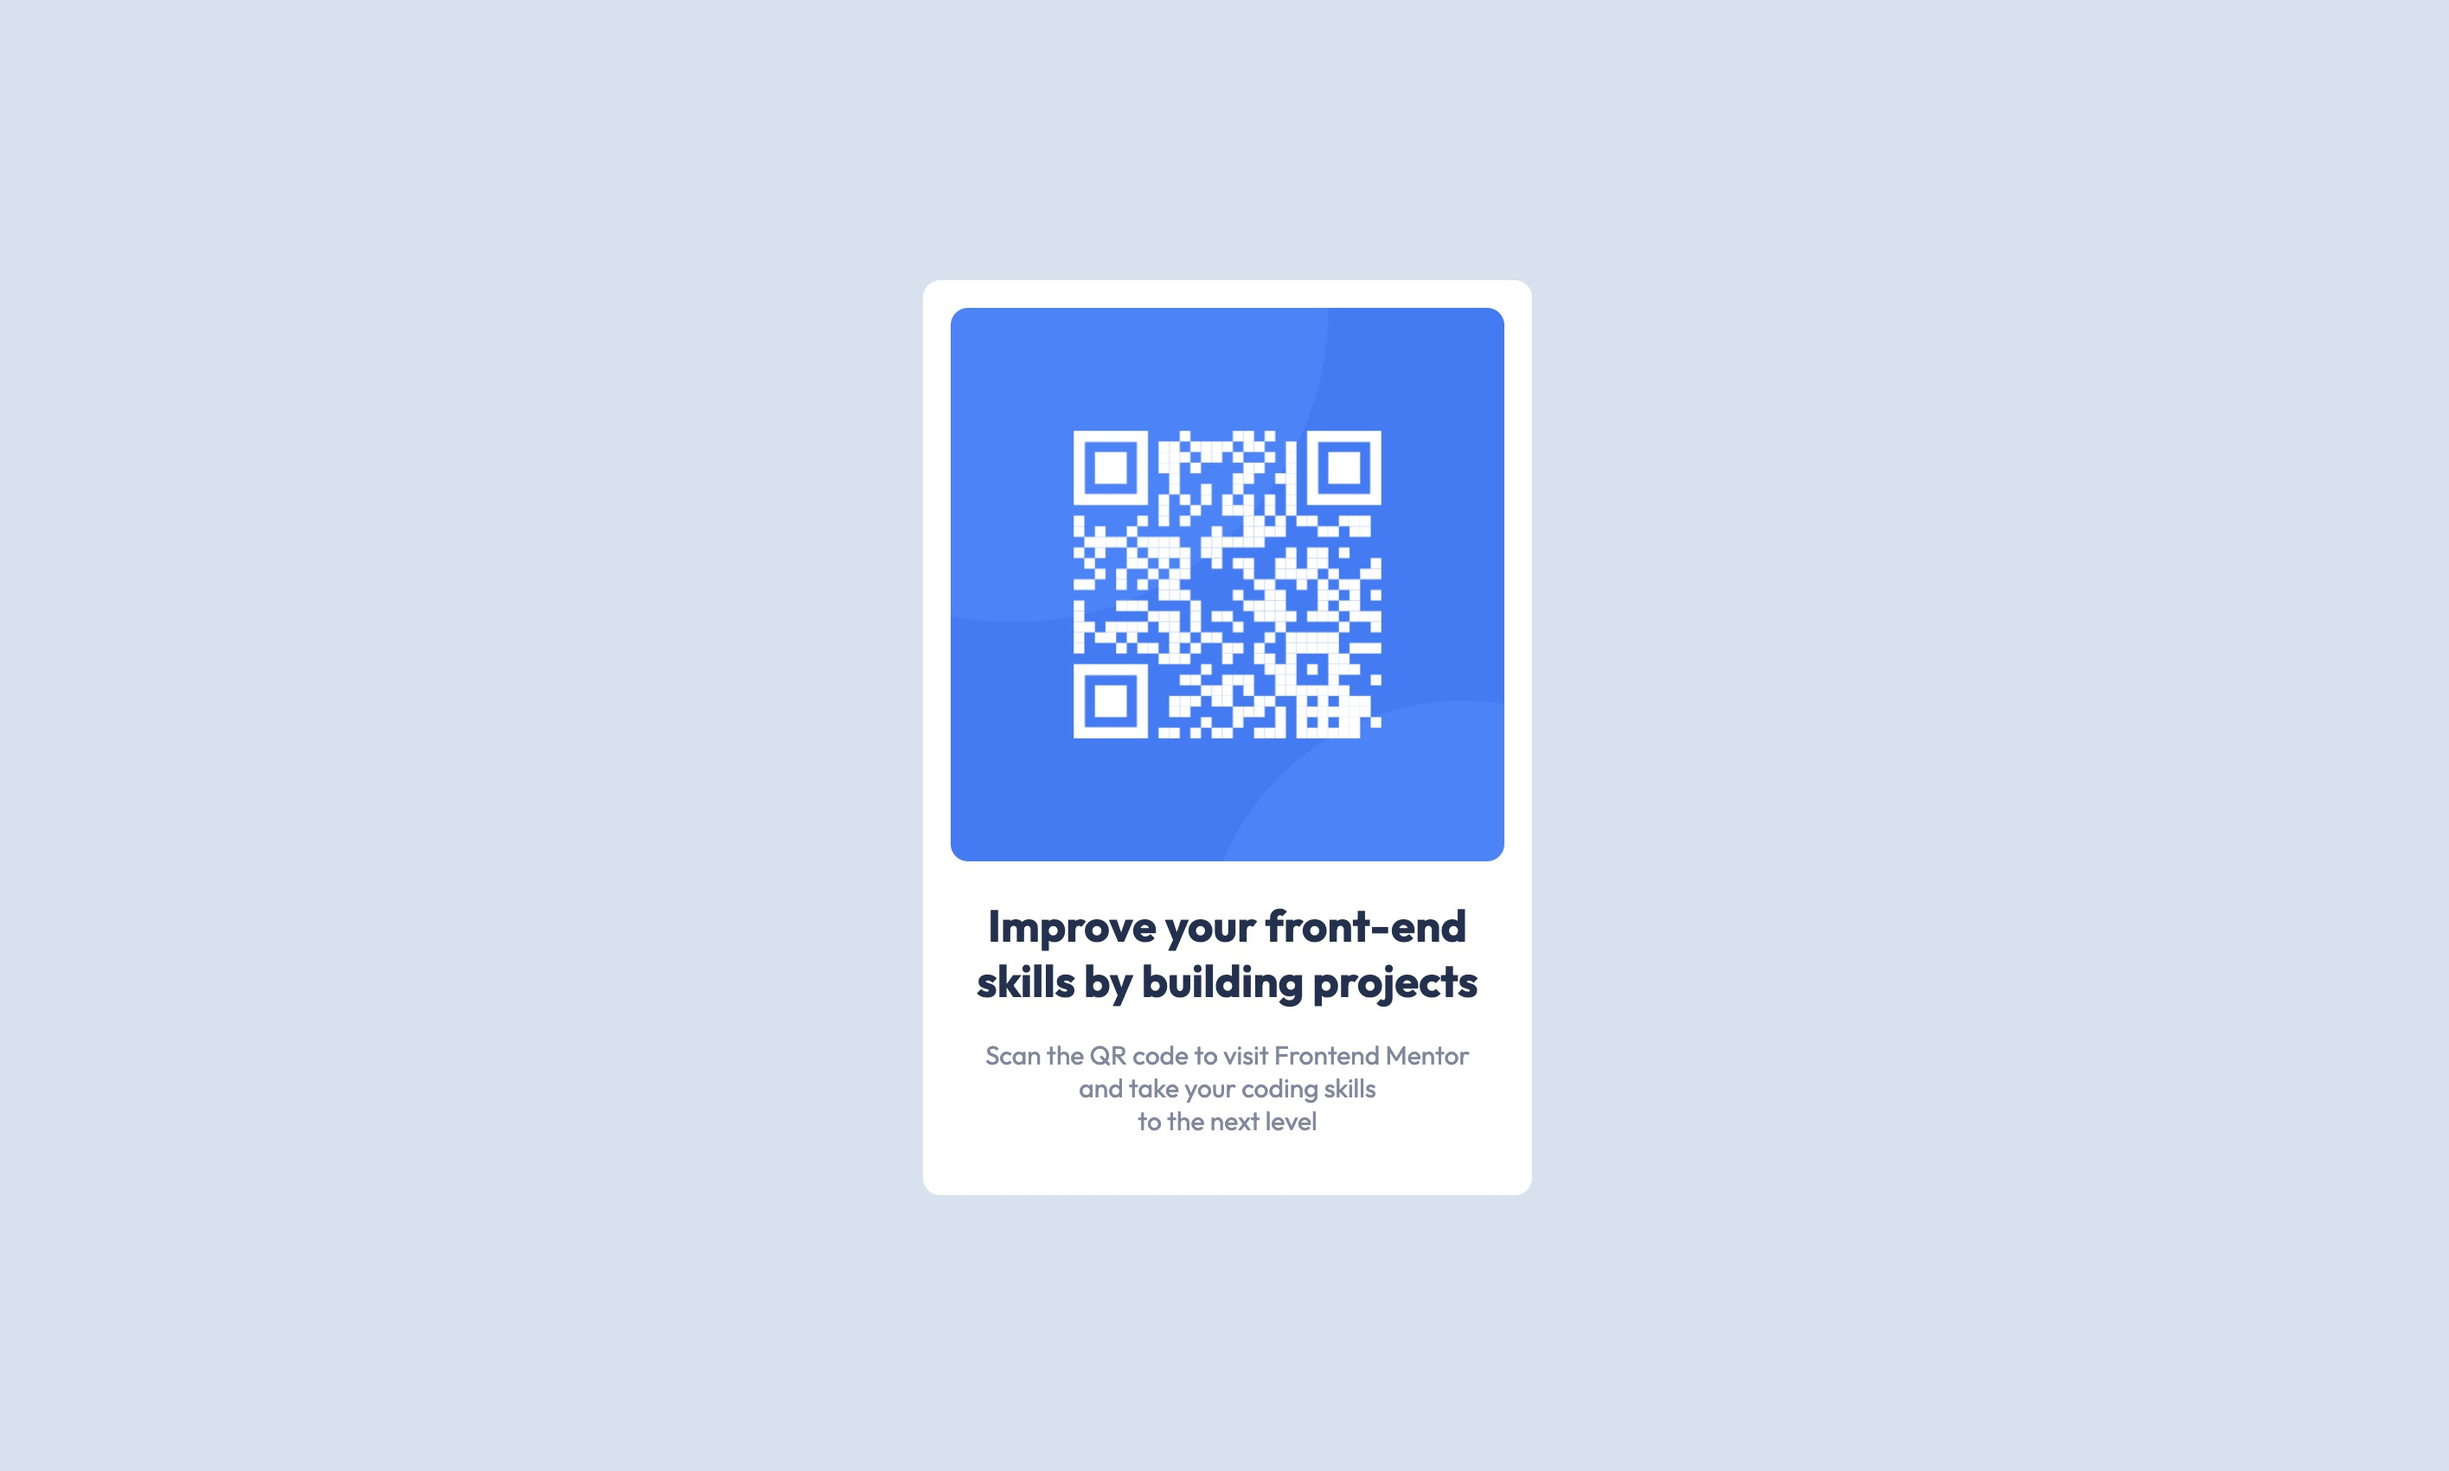
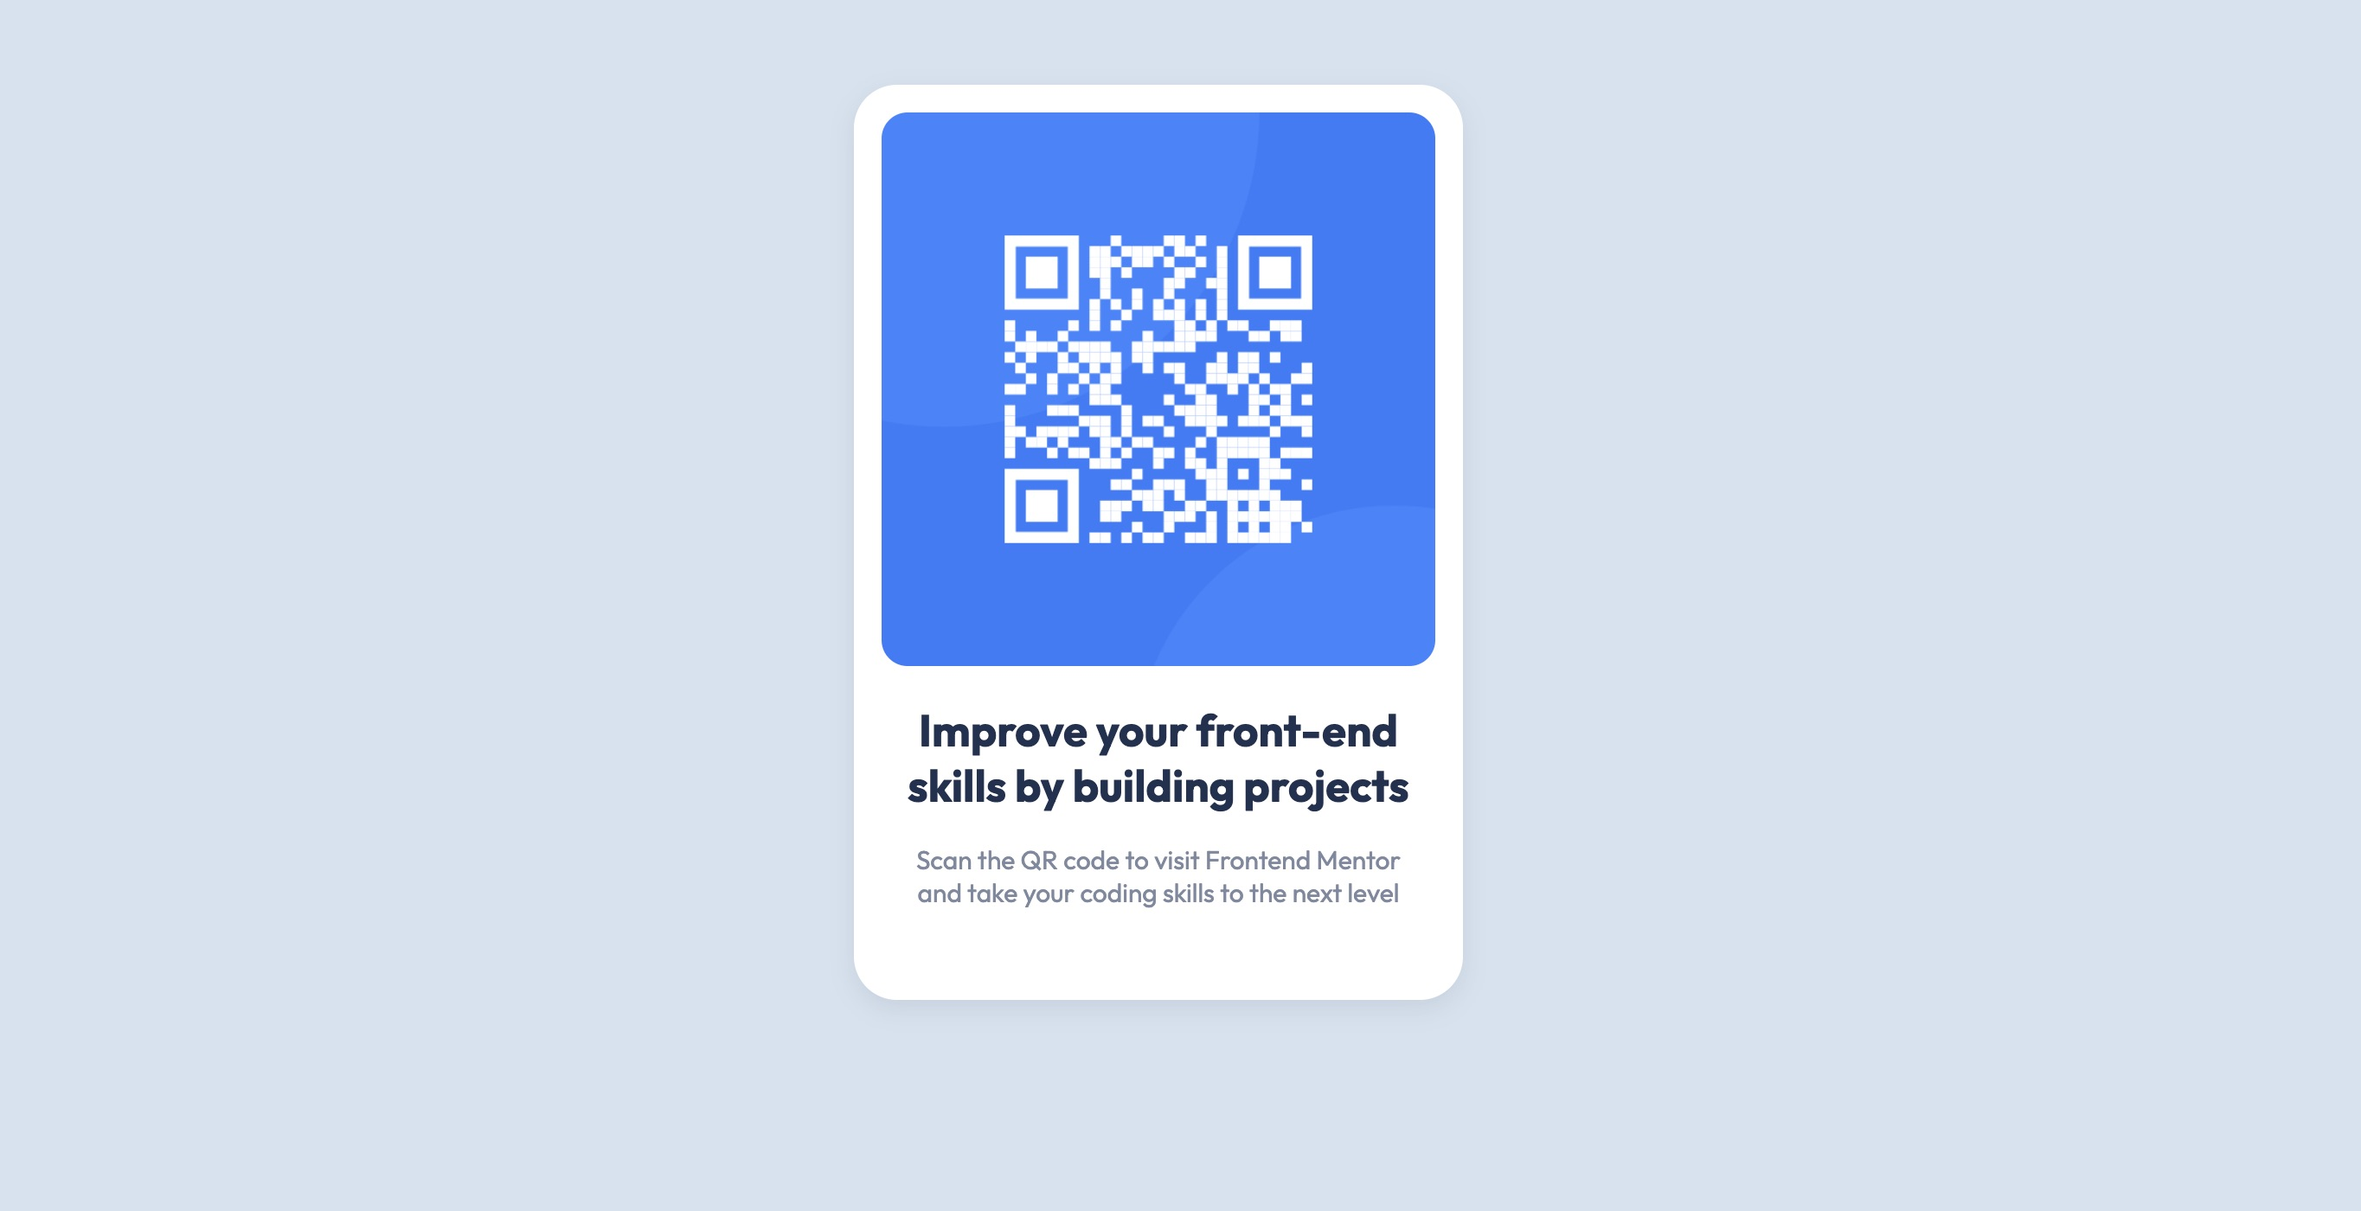
Add files via upload

Changed region(s): [[0.3426, 0.0614, 0.6229, 0.8293]]

diff --git a/qr-code-component-main/index.html b/qr-code-component-main/index.html
@@ -36,23 +36,27 @@
   </head>
 
   <body>
-    <div class="container">
-      <div class="card">
-        <div><img src="./images/image-qr-code.png" alt="qr-code" /></div>
-        <div class="title-paragraph">
-          <h1>Improve your front-end skills by building projects</h1>
-          <p>
-            Scan the QR code to visit Frontend Mentor <br />
-            and take your coding skills to the next level
-          </p>
+    <main>
+      <div class="container">
+        <div class="card">
+          <div><img src="./images/image-qr-code.png" alt="qr-code" /></div>
+          <div class="title-paragraph">
+            <h1>Improve your front-end skills by building projects</h1>
+            <p>
+              Scan the QR code to visit Frontend Mentor <br />
+              and take your coding skills to the next level
+            </p>
+          </div>
         </div>
       </div>
-    </div>
-    <div class="attribution">
-      Challenge by
-      <a href="https://www.frontendmentor.io?ref=challenge" target="_blank"
-        >Frontend Mentor</a
-      >. Coded by <a href="https://github.com/F9F6EE">F9F6EE</a>.
-    </div>
+    </main>
+    <footer>
+      <div class="attribution">
+        Challenge by
+        <a href="https://www.frontendmentor.io?ref=challenge" target="_blank"
+          >Frontend Mentor</a
+        >. Coded by <a href="https://github.com/F9F6EE">F9F6EE</a>.
+      </div>
+    </footer>
   </body>
 </html>

diff --git a/qr-code-component-main/style.css b/qr-code-component-main/style.css
@@ -1,0 +1,54 @@
+body {
+  display: flex;
+  flex-direction: column;
+  padding: 0;
+  margin: 0;
+  font-family: "outfit";
+  background-color: hsl(212, 45%, 89%);
+}
+
+.container {
+  display: flex;
+  flex-direction: column;
+  justify-content: center;
+  align-items: center;
+  height: 100svh;
+}
+
+.card {
+  display: flex;
+  flex-direction: column;
+  max-width: 320px;
+  height: 497px;
+  background-color: white;
+  border-radius: 25px;
+  padding: 16px;
+  box-shadow: rgba(125, 136, 158, 0.2) 0px 5px 15px;
+}
+
+.card img {
+  width: 100%;
+  object-fit: cover;
+  border-radius: 15px;
+}
+.title-paragraph {
+  text-align: center;
+}
+
+.card h1 {
+  font-size: 1.6rem;
+  font-weight: 400px;
+  color: hsl(218, 44%, 22%);
+}
+
+.card p {
+  font-size: 15px;
+  font-weight: 700px;
+  color: #7d889e;
+}
+
+@media screen {
+  .container {
+    height: 100svh;
+  }
+}

diff --git a/qr-code-component-main/README.md b/qr-code-component-main/README.md
@@ -22,7 +22,7 @@ This is a solution to the [QR code component challenge on Frontend Mentor](https
 ### Links
 
 - [Solution URL](https://www.frontendmentor.io/solutions/qrcodecomponent-_Jzo2yXW1E)
-- [Live Site URL](https://qr-code-component-rouge-five.vercel.app)
+- [Live Site URL](https://qr-code-component-rouge-five.vercel.app/)
 
 ### Built with
 
